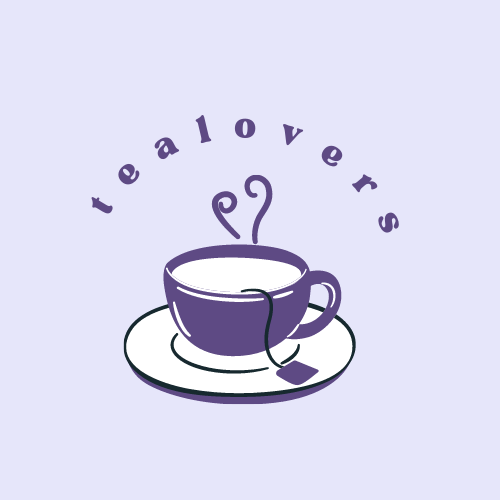
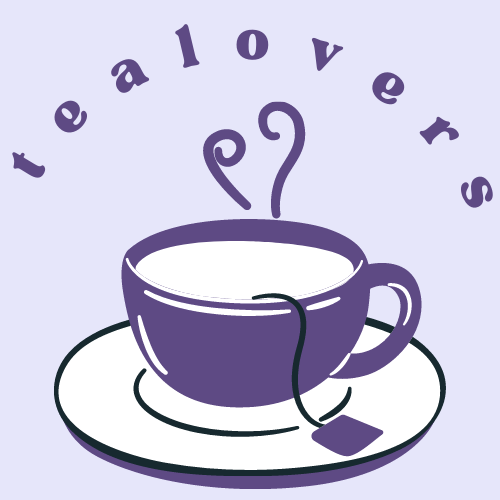
mudança5

diff --git a/produtos.html b/produtos.html
@@ -10,10 +10,10 @@
     <body>
        <header>
             <div class="caixa">
-                <img src="tealovers.png">
+                <img class="logocha" src="tealovers.png">
 
                 <nav>
-                    <ul>
+                    <ul class="titulo">
                        <li><a href="index.html">Home</a></li>
                        <li><a href="produtos.html">Receitas</a></li>
                        <li><a href="contato.html">Contato</a></li>
@@ -27,7 +27,12 @@
               <li>
                 <h2>Chá de Camomila</h2>
                 <img id="camomila"src="chadecamomila2.jpg">
-                <p>Saiba dos diversos benefícios do chá de camomila e a sua forma de preparo</p>
+                <p>Benefícios:</p>
+                               <p>-alivia cólicas menstruais</p>
+                               <p>-controla a diabetes</p>
+                               <p>-alivia os sintomas da gripe</p>
+                               <p>-melhora o sono</p>
+                               <p>-alivia problemas no estômago</p>
               </li>
               <li>
                 <h2>Chá de Hortelã</h2>
@@ -41,5 +46,10 @@
               </li>
            </ul>
        </main>
+
+       <footer>
+           <img src="tealovers.png">
+           <p class="copyright">&copy; TeaLovers - 2022
+       </footer>
     </body>
 </html>

diff --git a/produtos.css b/produtos.css
@@ -5,7 +5,7 @@ header {
 
 .caixa {
     position: relative;
-    width: 940px;
+    width: 1500px;
     margin: 0 auto;
 }
 
@@ -29,6 +29,11 @@ nav a {
   text-decoration: none;
 }
 
+nav a:hover {
+  color: #000000;
+  text-decoration: underline;
+}
+
 h2{
   text-transform: uppercase;
   color: #4B0082;
@@ -37,6 +42,7 @@ h2{
 p{
    color: #483D8B;
    text-transform: inherit;
+   text-align: left;
 }
 
 #camomila{
@@ -48,8 +54,7 @@ p{
 }
 
 h2{
-  font-size: 40px;
-  text-align: center;
+  font-size: 30px;
 }
 
 .produtos {
@@ -69,6 +74,37 @@ h2{
     border-radius: 10px;
 }
 
+.produtos li:hover {
+    border-color: #000000;
+}
+
+.produtos li:hover h2 {
+    font-size: 35px;
+}
+
+.produtos li:active {
+    border-color: #808080;
+}
+
 .produto-descricao {
   font-size: 18px;
+}
+
+.titulo li {
+    display: inline-block;
+}
+
+.logocha {
+  width: 350px;
+}
+
+footer {
+  text-align: center;
+  background: #E6E6FA;
+  padding: 45px 0;
+}
+
+.copyright {
+  font-size: 13px;
+  margin: 30px 0 0;
 }

diff --git a/contato.html b/contato.html
@@ -1,0 +1,34 @@
+<!DOCTYPE html>
+<html>
+    <head>
+        <meta charset="UTF-8">
+        <title>Receitas - TeaLovers</title>
+
+        <link rel="stylesheet" href="reset.css">
+        <link rel="stylesheet" href="produtos.css">
+    </head>
+    <body>
+       <header>
+            <div class="caixa">
+                <img class="logocha" src="tealovers.png">
+
+                <nav>
+                    <ul class="titulo">
+                       <li><a href="index.html">Home</a></li>
+                       <li><a href="produtos.html">Receitas</a></li>
+                       <li><a href="contato.html">Contato</a></li>
+                    </ul>
+                </nav>
+            </div>
+        </header>
+
+        <main>
+
+        </main>
+
+        <footer>
+            <img src="tealovers.png">
+            <p class="copyright">&copy; TeaLovers - 2022
+        </footer>
+     </body>
+ </html>
